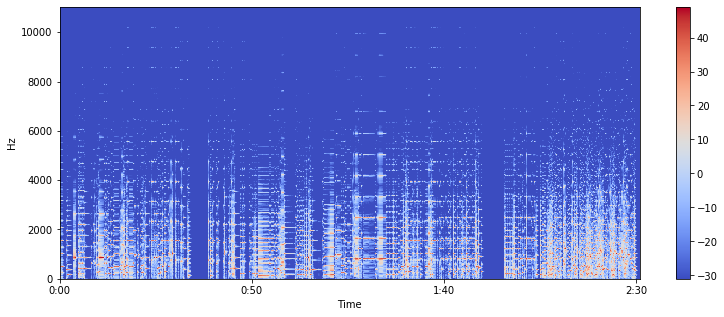
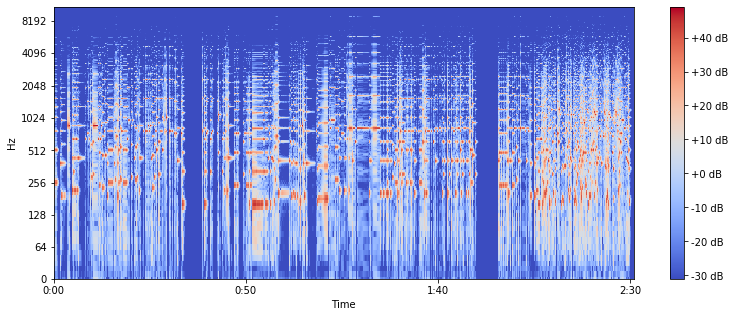
result

diff --git a/README.md b/README.md
@@ -114,7 +114,10 @@ This section should summarize your results and will embed links to documentation
 It can be seen from the plotted notes, that most of the patterns of the continuing melody follows pretty similar trends as that of the input classical-piano-composer. Exception applies to that towards the end of the melody, beginning at around 120s. One thing to notice is that this is the original input piece ends at around 2 minutes, but our generating melody prolongs to a little over this duration. Randomness after this timespan is therefore pretty apparent via this top-bottom comparison.
 ![](results/melody_rnn/bokeh_plot_cpt1.png)
 ![](results/melody_rnn/bokeh_plot_cpt2.png)
-- 
+- Considering the following two plotted log-scaled spectograms -- a visual way of representing the signal strength over time at various frequencies present -- the original fitted Classical-Piano-Composer (top), and that output of MelodyRNN (bottom) unsurprisingly shares a same scale of max and min hertz. However, they have pretty different majority spread of their frequencies. By a log-transformation applied on the frequencies, it can be seen that the majority of Classical-Piano-Composer's output has sound intensity above -10dB for log-scaled frequency of between 64 to 512 Hz; While that for the generated melody, hearable log-scaled frequeny mostly falls between 128 to 1024 Hz with a sound intensity of around 10 to 40 dB. <br>
+While it is difficult to tell directly from this comparison why the reason for this is, but one possible explanation may be due to MelodyRNN specifically learning "bumpy" notes and rhythms from the input audio, and therefore the overall pitch turned out to be higher.
+![](results/melody_rnn/spectogram_piano.png)
+![](results/melody_rnn/spectogram_melody.png)
 
 ### Lyrics Generation
 <b>Lyrics_generation_rnn</b>  
